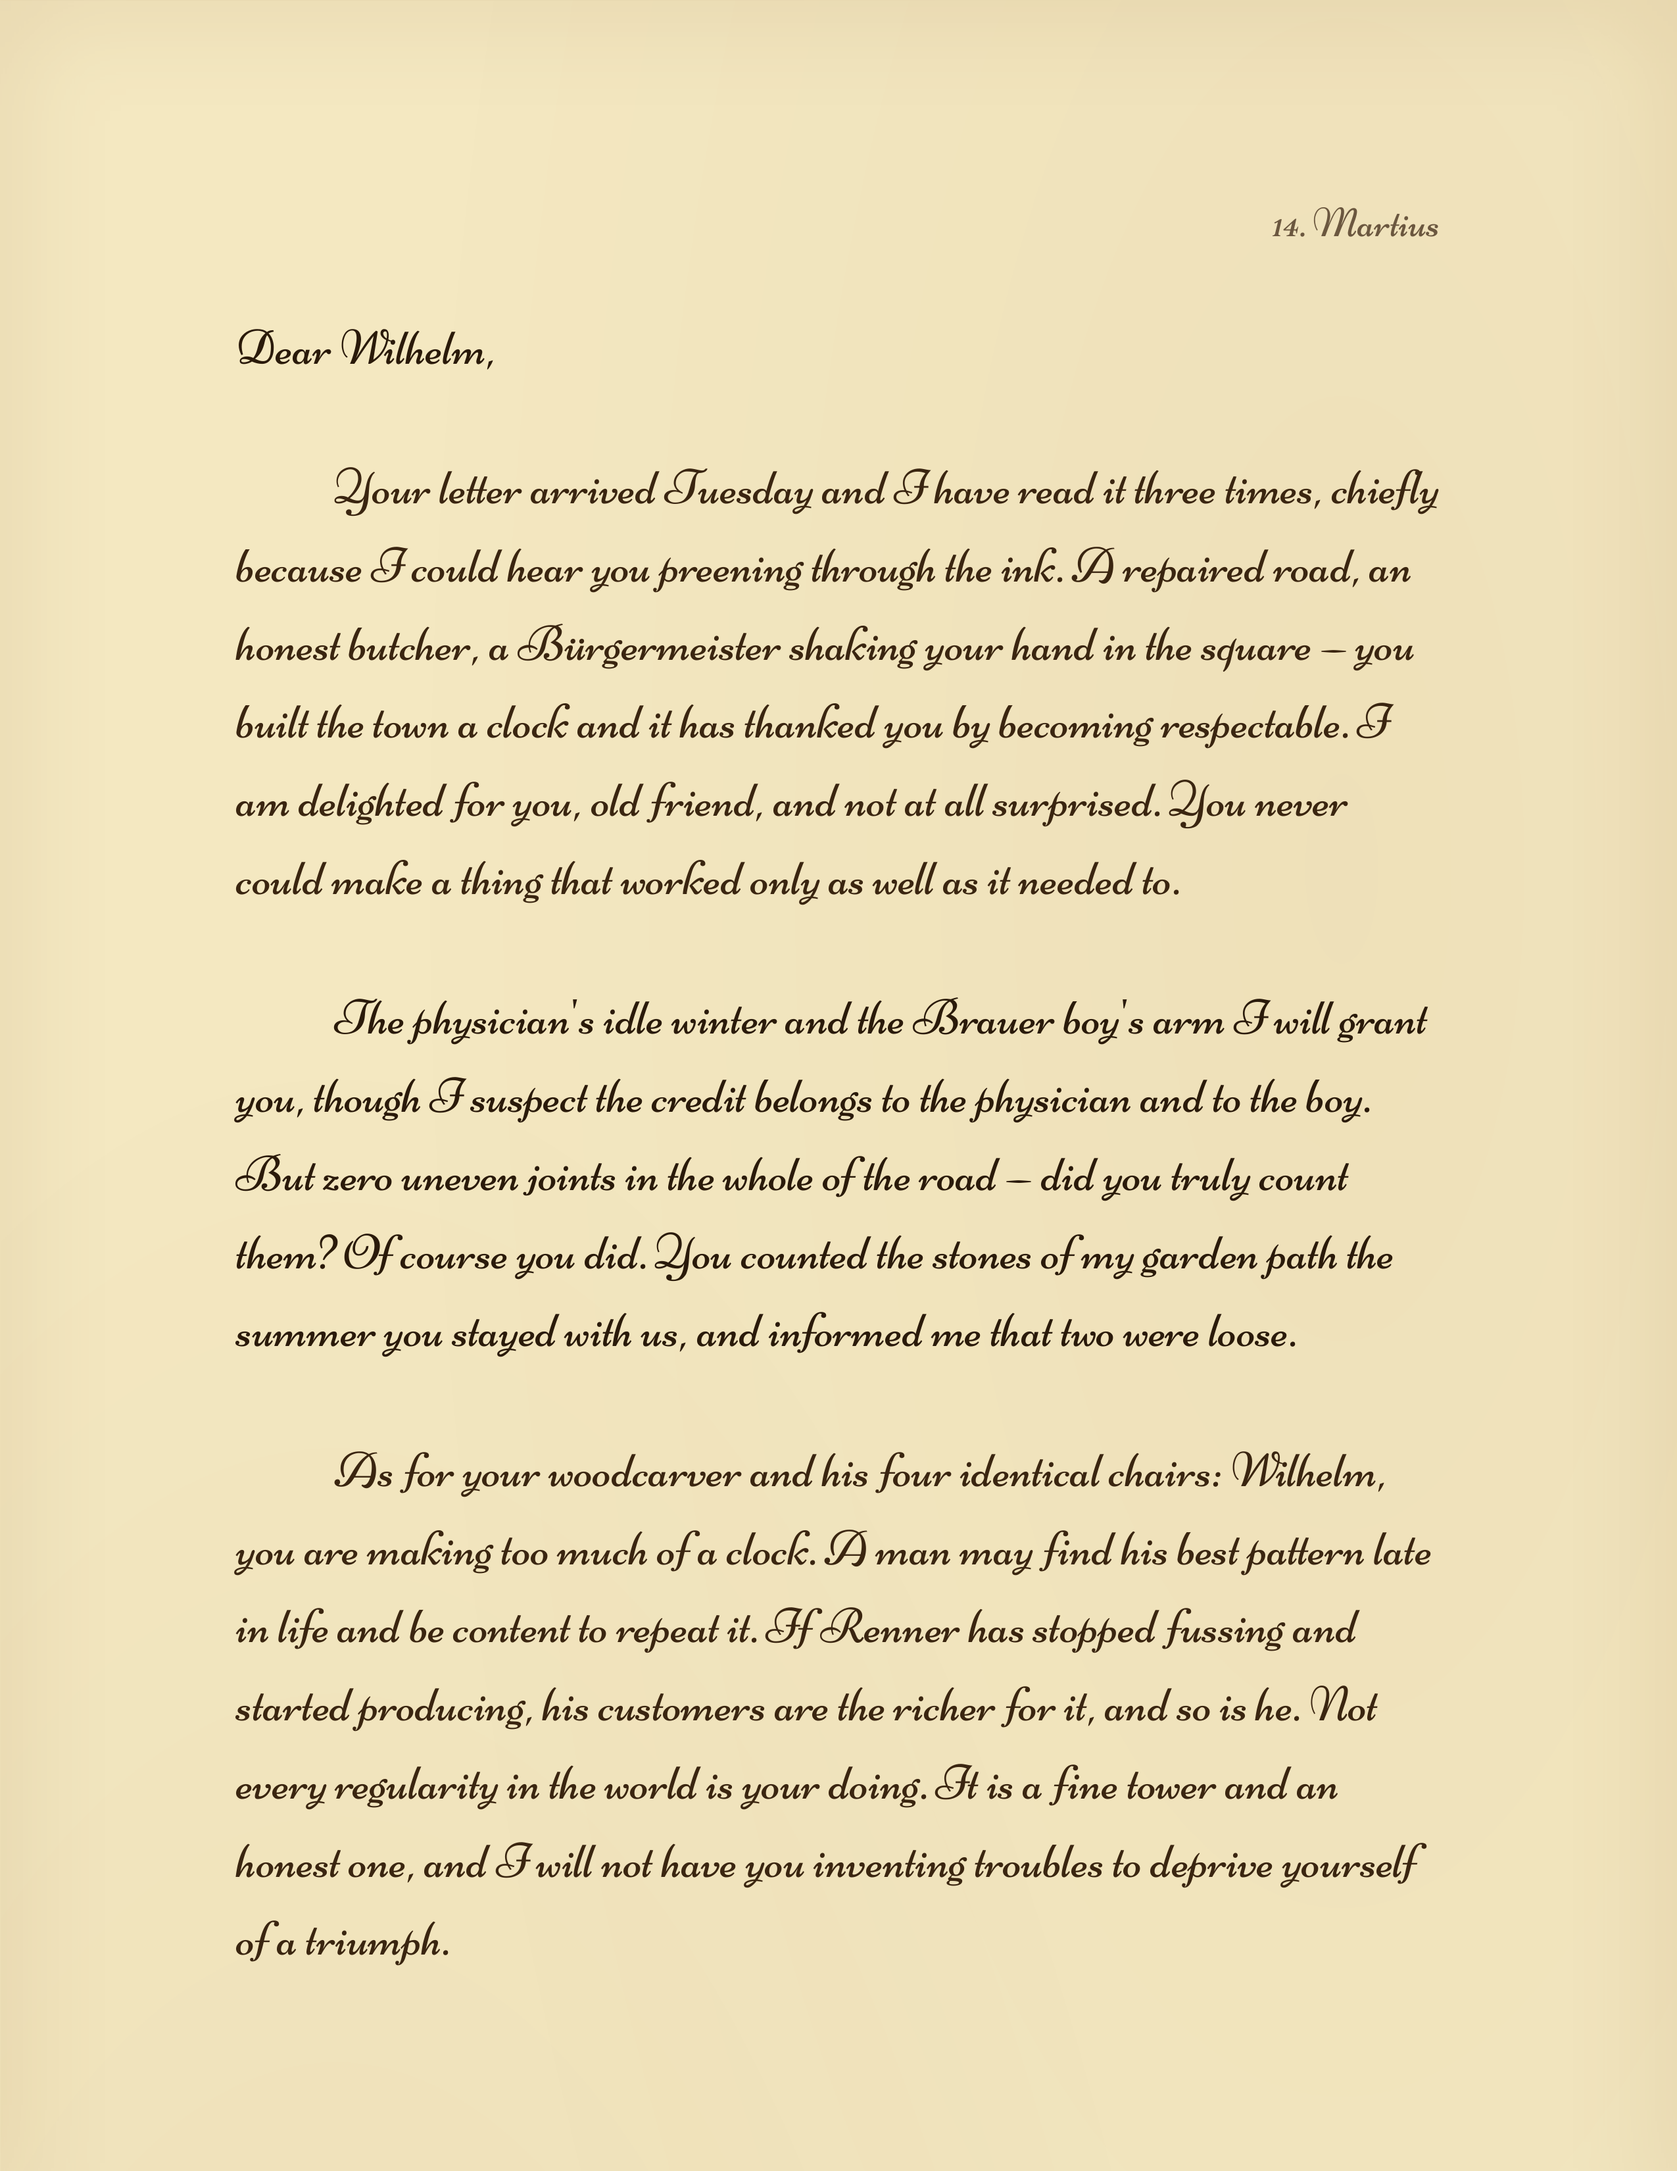
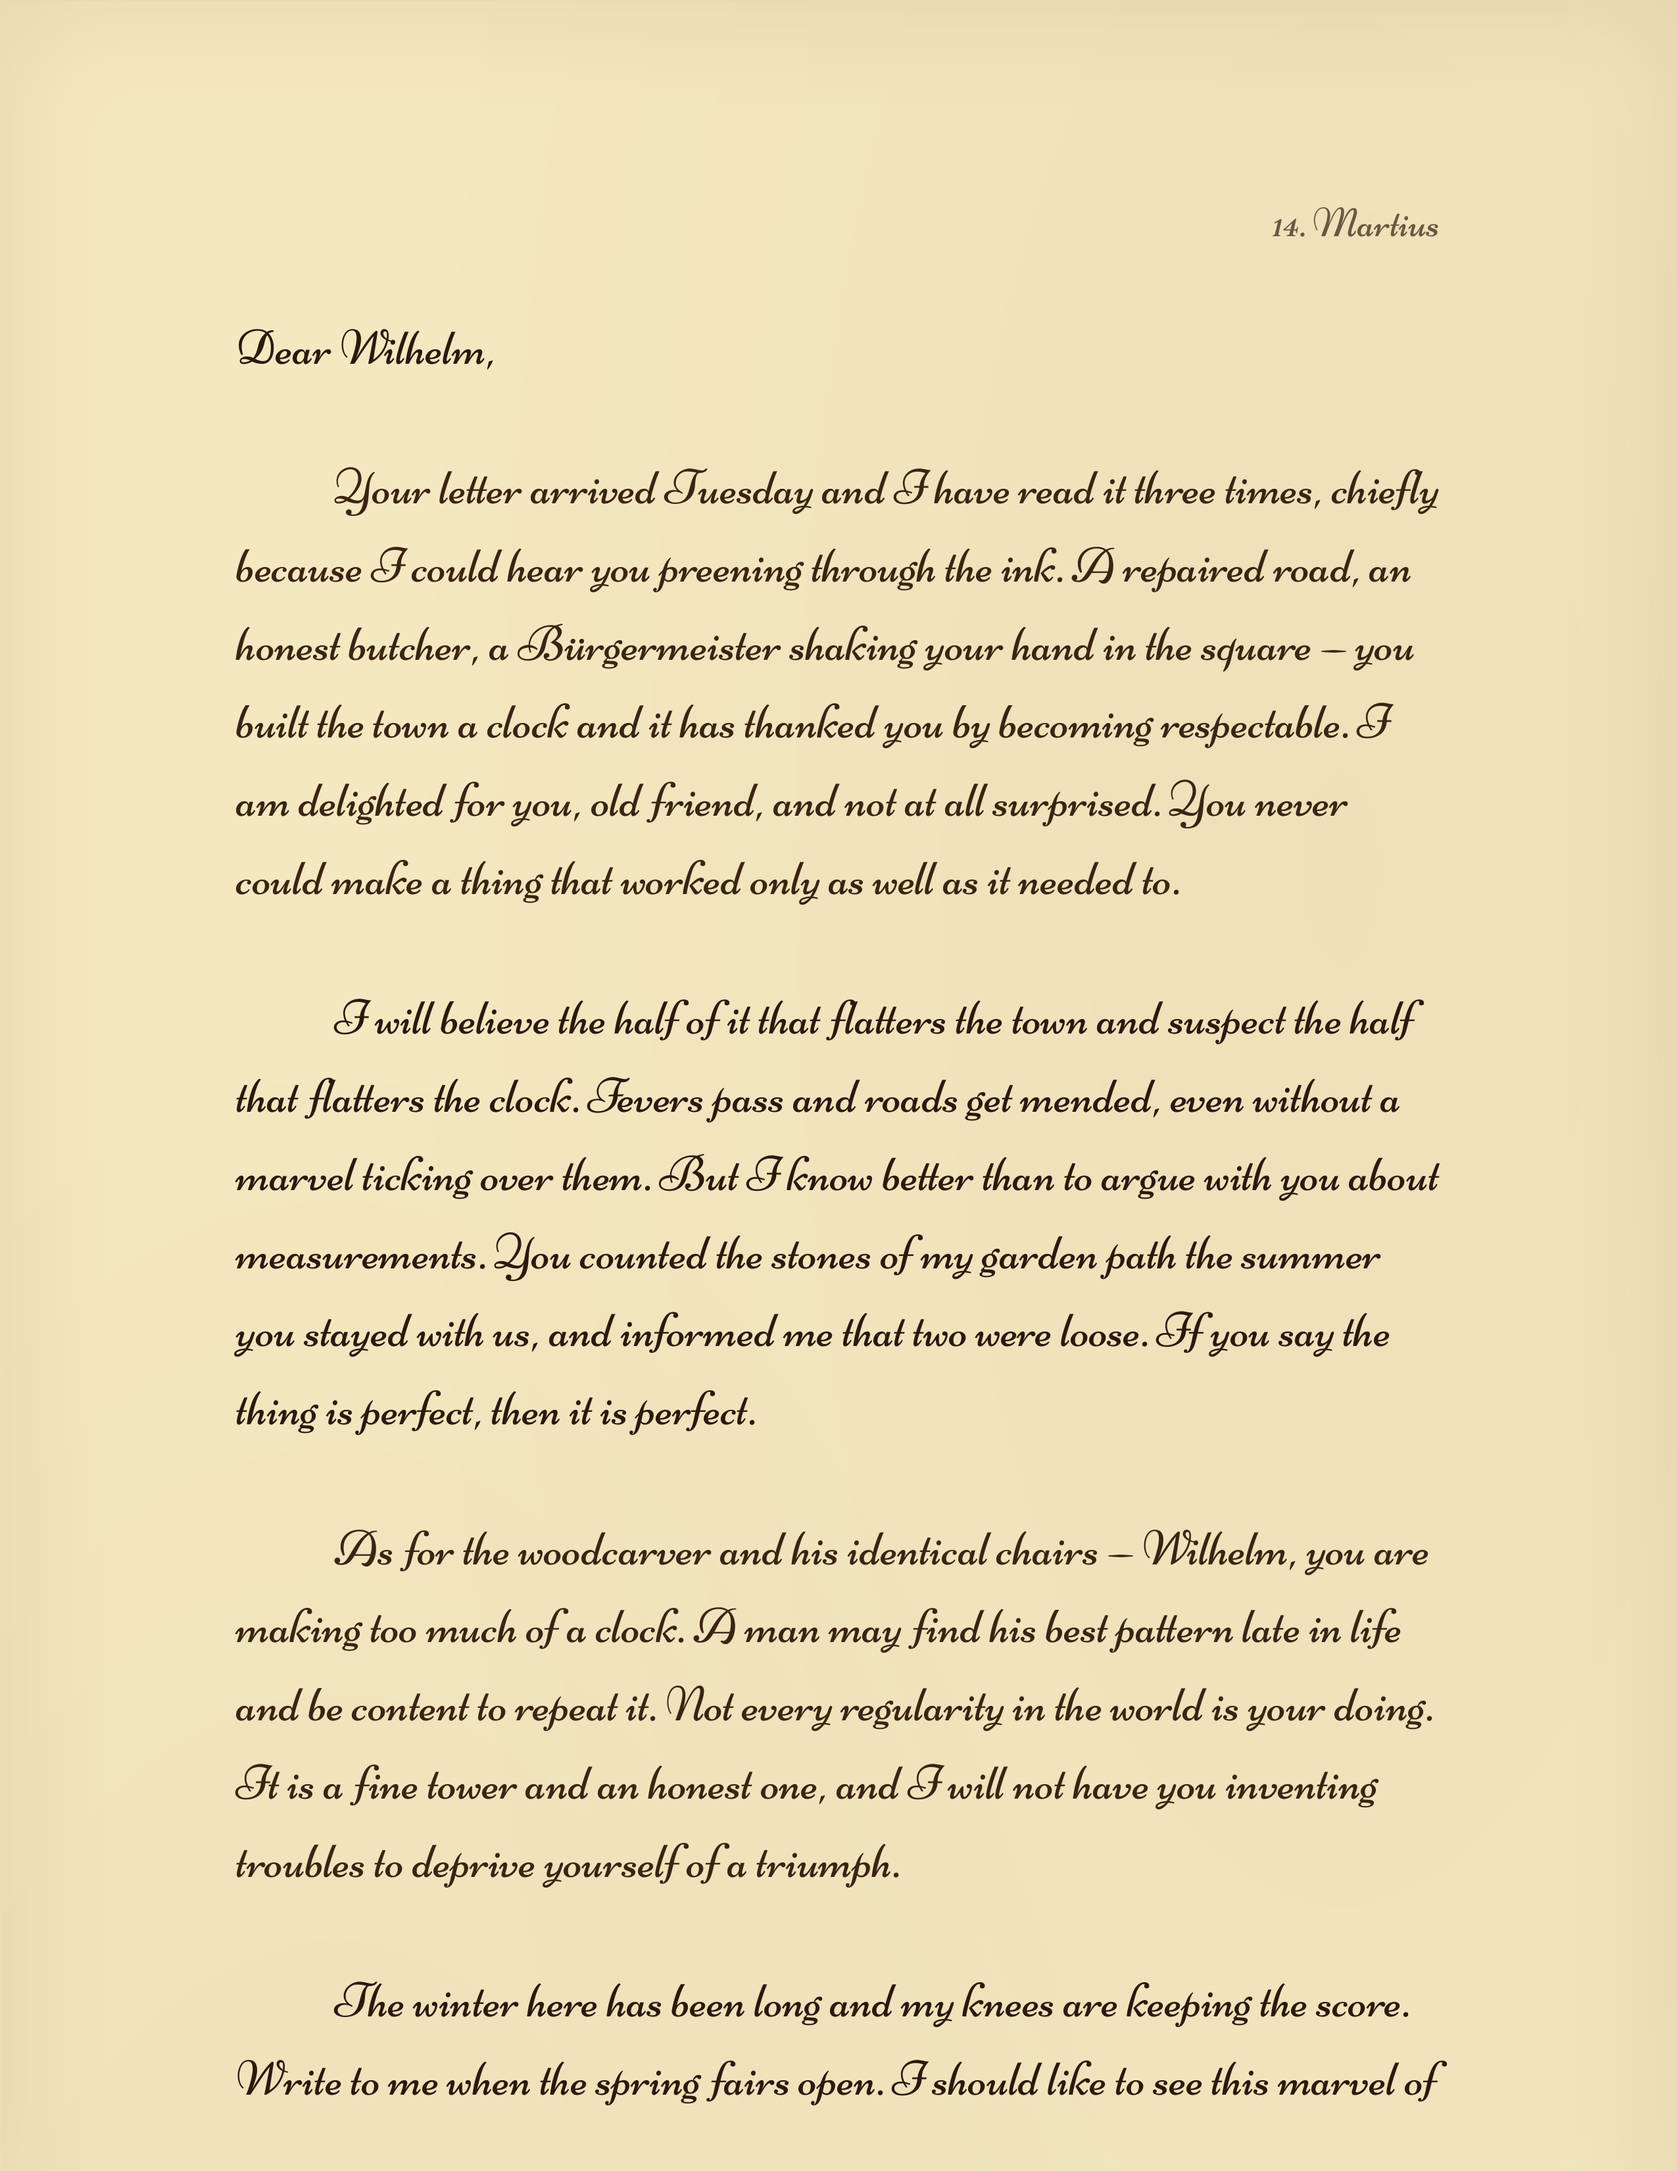
Rework Kohler letter to stand alone without echoing the unseen letter
Kohler speaks in his own voice — general skepticism-turned-blessing,
the garden-path memory, one brief nod to the chairs worry, a line of
his own news — instead of itemizing Wilhelm's reports back at him.

Changed region(s): [[0.1239, 0.4682, 0.8675, 0.9676], [0.1549, 0.9364, 0.2169, 0.9676]]

diff --git a/props/documents/letter-from-kohler.html b/props/documents/letter-from-kohler.html
@@ -55,11 +55,11 @@
 
     <p>Your letter arrived Tuesday and I have read it three times, chiefly because I could hear you preening through the ink. A repaired road, an honest butcher, a Bürgermeister shaking your hand in the square — you built the town a clock and it has thanked you by becoming respectable. I am delighted for you, old friend, and not at all surprised. You never could make a thing that worked only as well as it needed to.</p>
 
-    <p>The physician's idle winter and the Brauer boy's arm I will grant you, though I suspect the credit belongs to the physician and to the boy. But zero uneven joints in the whole of the road — did you truly count them? Of course you did. You counted the stones of my garden path the summer you stayed with us, and informed me that two were loose.</p>
+    <p>I will believe the half of it that flatters the town and suspect the half that flatters the clock. Fevers pass and roads get mended, even without a marvel ticking over them. But I know better than to argue with you about measurements. You counted the stones of my garden path the summer you stayed with us, and informed me that two were loose. If you say the thing is perfect, then it is perfect.</p>
 
-    <p>As for your woodcarver and his four identical chairs: Wilhelm, you are making too much of a clock. A man may find his best pattern late in life and be content to repeat it. If Renner has stopped fussing and started producing, his customers are the richer for it, and so is he. Not every regularity in the world is your doing. It is a fine tower and an honest one, and I will not have you inventing troubles to deprive yourself of a triumph.</p>
+    <p>As for the woodcarver and his identical chairs — Wilhelm, you are making too much of a clock. A man may find his best pattern late in life and be content to repeat it. Not every regularity in the world is your doing. It is a fine tower and an honest one, and I will not have you inventing troubles to deprive yourself of a triumph.</p>
 
-    <p>Write to me when the spring fairs open. I should like to see this marvel of yours with my own eyes before you find something in it to worry about. You always do.</p>
+    <p>The winter here has been long and my knees are keeping the score. Write to me when the spring fairs open. I should like to see this marvel of yours with my own eyes before you find something in it to worry about. You always do.</p>
   </div>
   <div class="closing">
     Your friend,<br>
